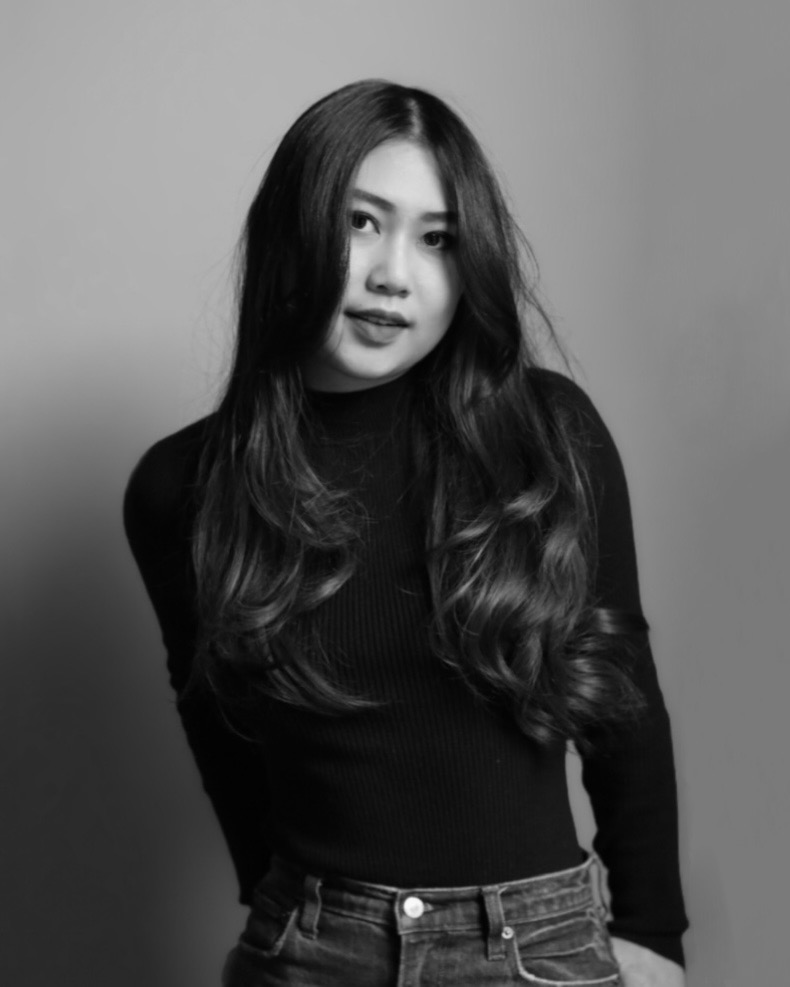
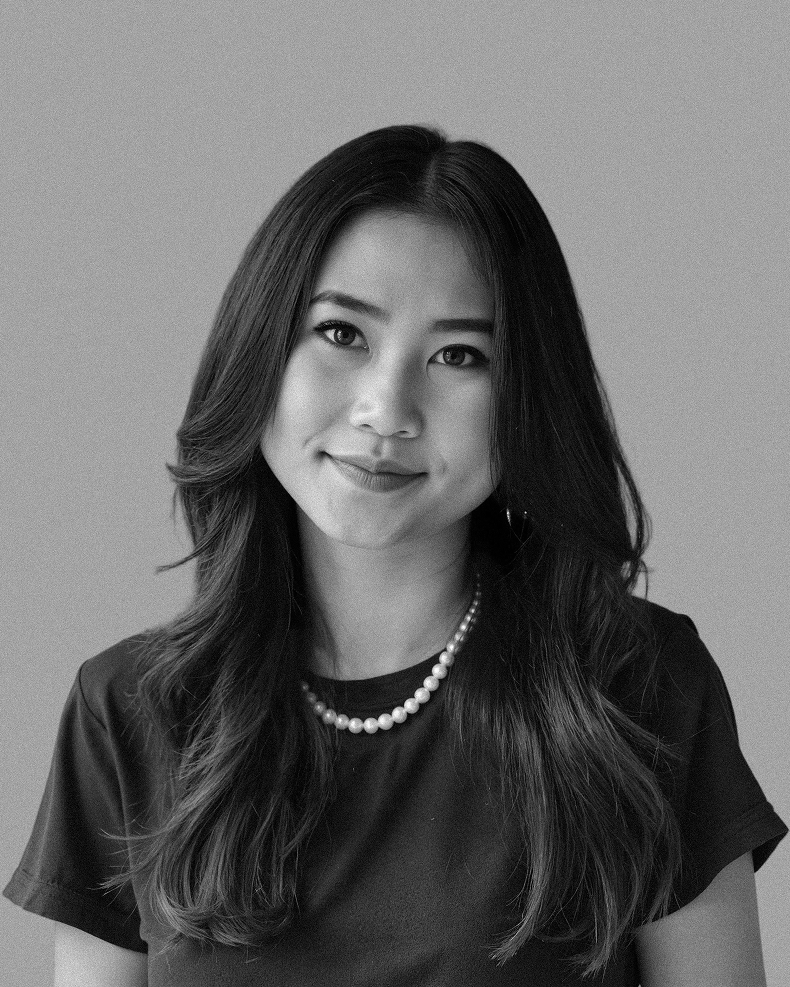
it's a hot day

diff --git a/src/components/Home/Past/PastList.tsx b/src/components/Home/Past/PastList.tsx
@@ -18,7 +18,7 @@ const Item2 = () => (
 		<p className="text-slate-500">02</p>
 		<div>
 			<p className="inline">research @ the</p> <Link text="Arc Institute" href="https://arcinstitute.org/" />
-			<p className="inline">, turning biology into a programmable discipline</p>
+			<p className="inline">, created the first high-level</p> <Link text="programming language for generative biology" href="https://proto.evodesign.org/" />
 		</div>
 	</motion.li>
 );
